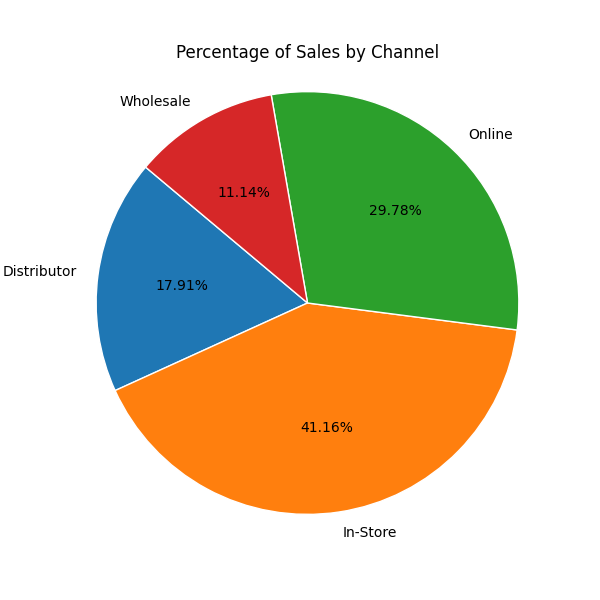
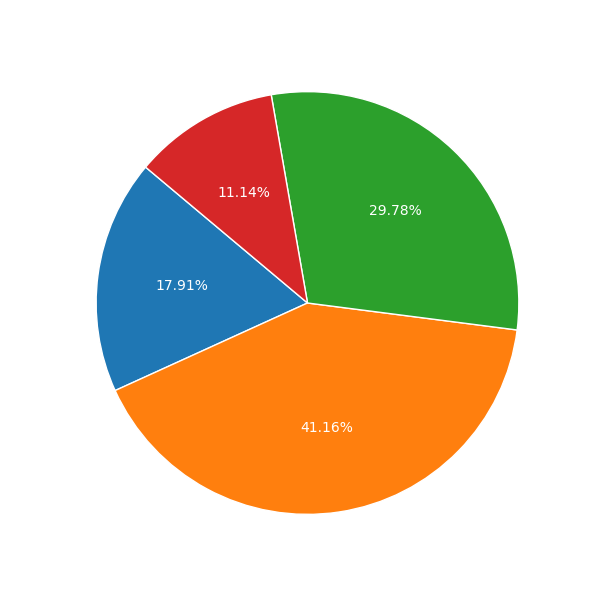
first commit

diff --git a/data_visualization/4_sales_by_channel_pie_chart.py b/data_visualization/4_sales_by_channel_pie_chart.py
@@ -18,11 +18,12 @@ plt.pie(
     autopct="%1.2f%%",
     startangle=140,
     wedgeprops={"edgecolor": "white", "linewidth": 1, "antialiased": True},
+    textprops={"color": "white"},
 )
 plt.axis("equal")  # Equal aspect ratio ensures that pie is drawn as a circle
 
 # Title for the pie chart
-plt.title("Percentage of Sales by Channel", pad=10)
+plt.title("Percentage of Sales by Channel", pad=10, color="white")
 
 plt.show()
 # Note: Saved as '...\assets\sales_by_channel_pie_chart.png'

diff --git a/README.md b/README.md
@@ -239,3 +239,7 @@ ORDER BY
 
 ![Sales by Channel Bar Graph](assets/sales_by_channel_bar_chart.png)
 _Bar graph visualizing the total amount of sales brought in by the various sales channels_
+
+<img src='https://github.com/treydenklein/Supply_Chain_Analysis/assets/80863071/1efd6111-e954-462d-b894-d0c34c7f8dde' width=80% height=80%>
+
+_Pie chart visualizing the distribution of sales brought in by the various sales channels as percentages_
